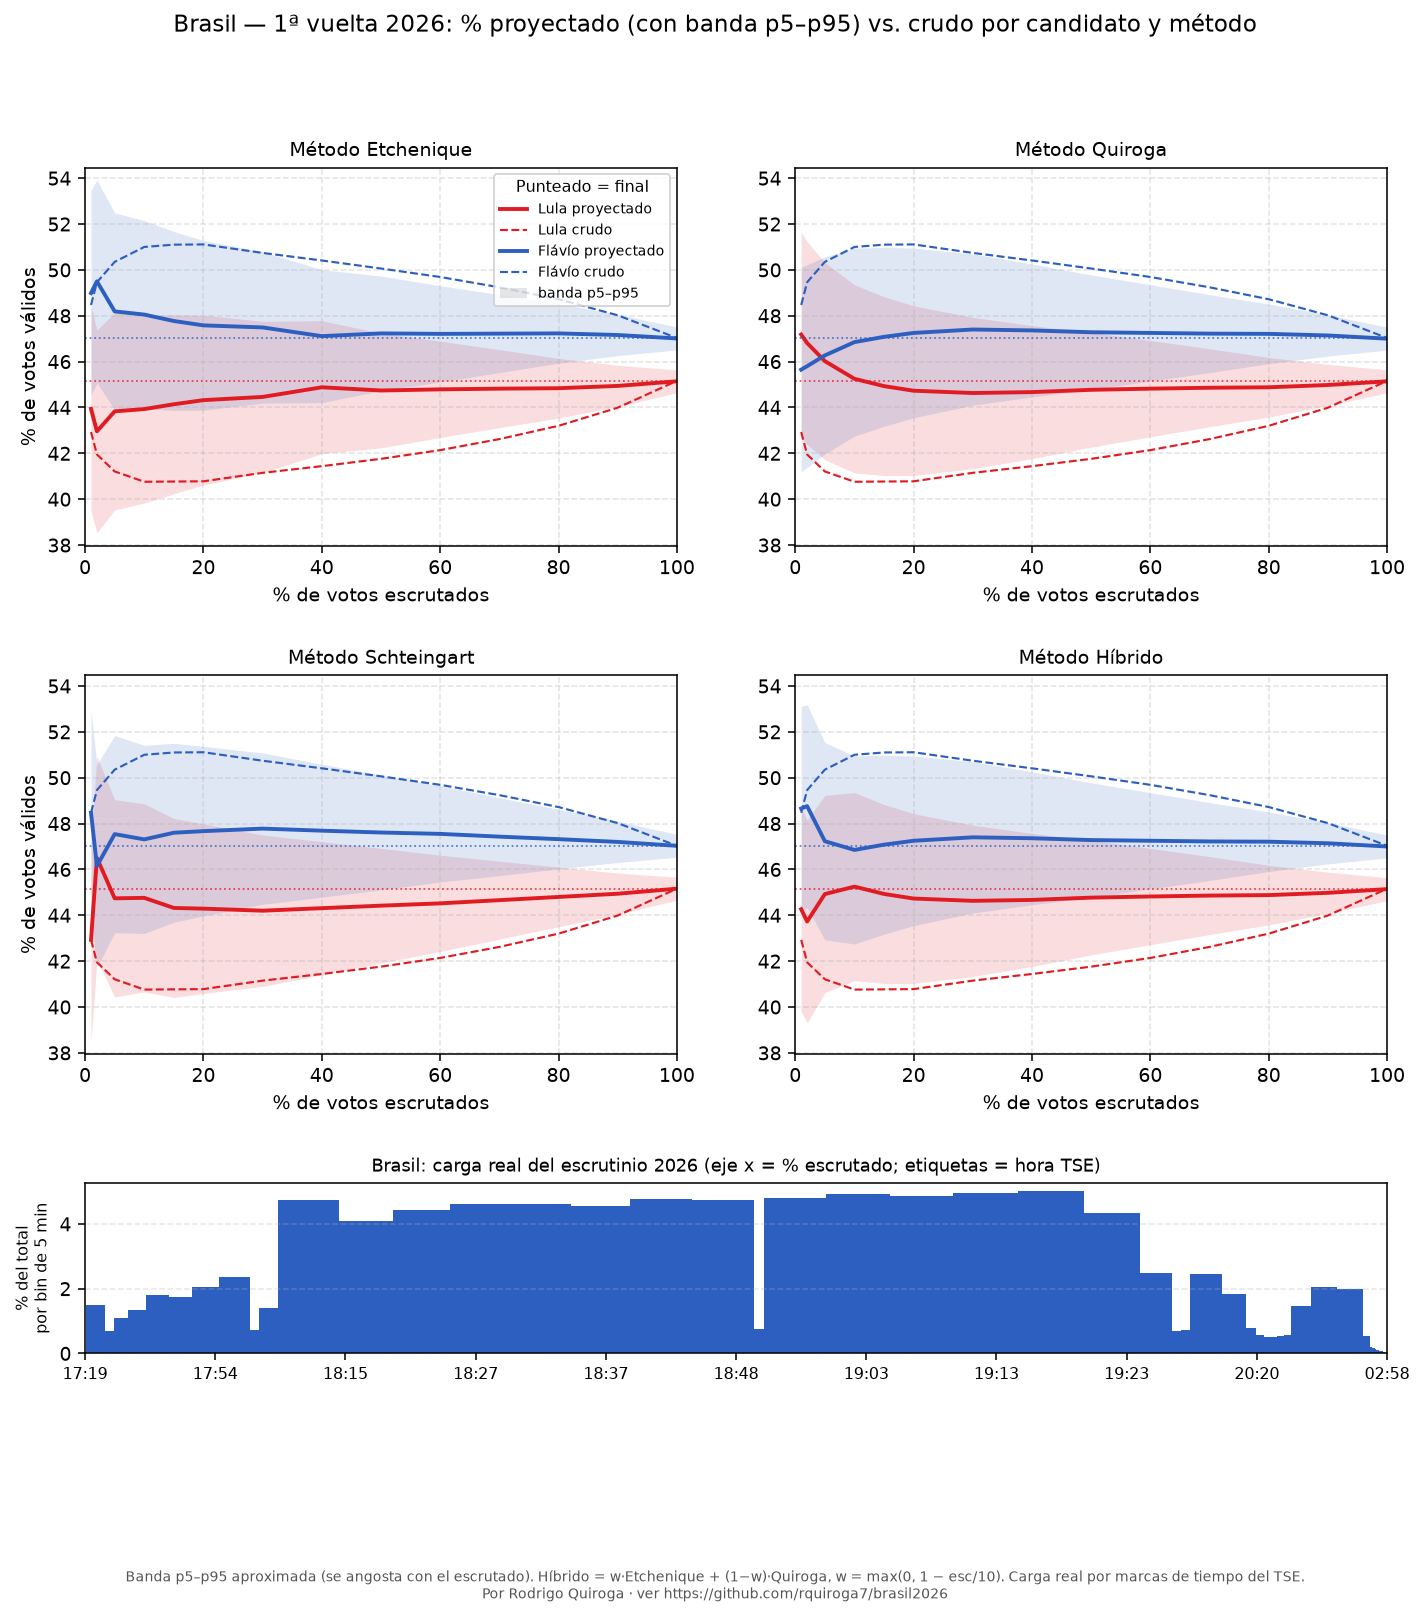
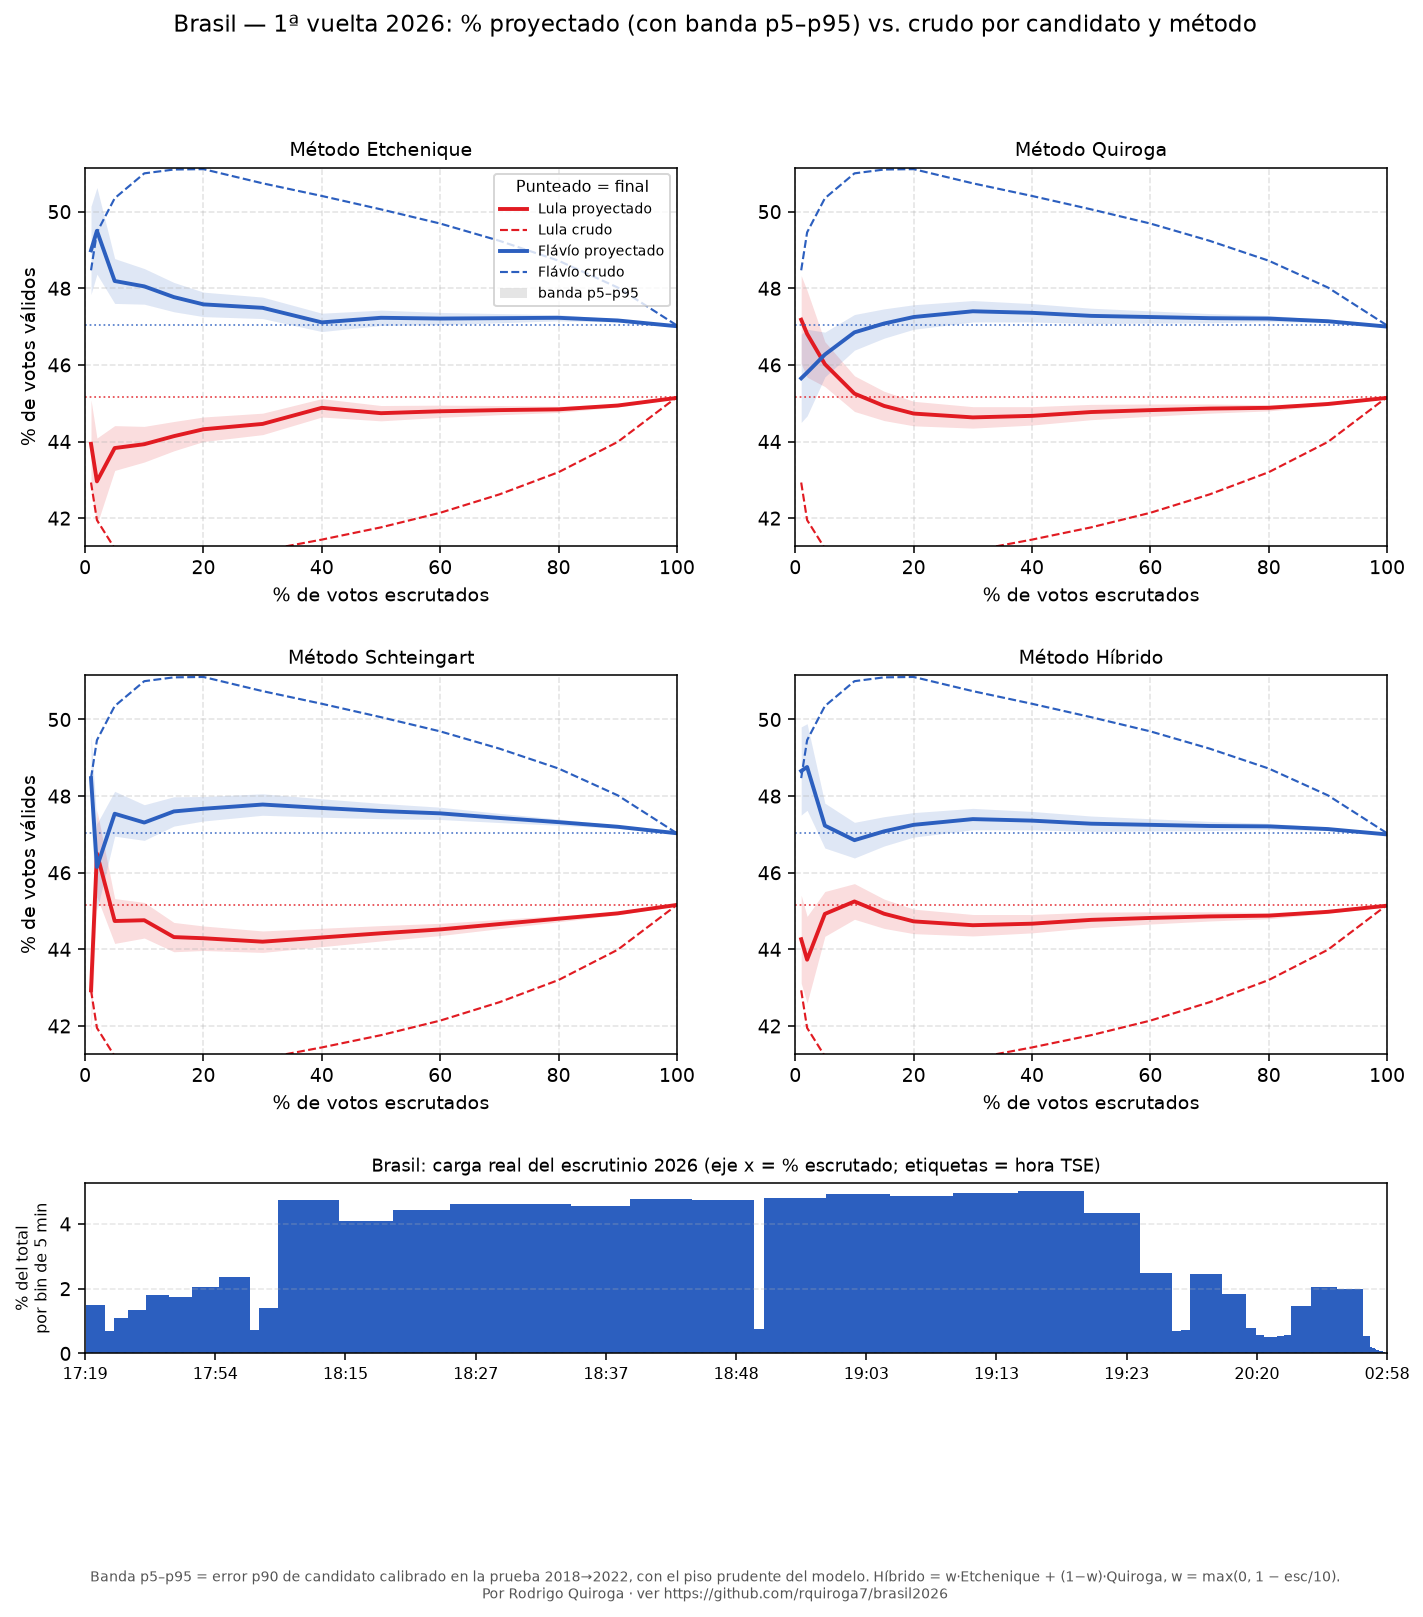
Banda p5-p95: usar calibracion real (cand p90 2018->2022) en vez de heuristica

diff --git a/graficar_backtest_candidatos_band.py b/graficar_backtest_candidatos_band.py
@@ -7,6 +7,7 @@ línea proyectada de cada candidato lleva una banda sombreada p5–p95.
 """
 
 import os
+import json
 
 import numpy as np
 import pandas as pd
@@ -21,6 +22,7 @@ import estilo_plot as ep
 import graficar_backtest_candidatos as g
 
 CSV = os.path.join(rd.REPO, "plot", "backtest_timestamped.csv")
+CAL = os.path.join(rd.REPO, "data", "proyeccion-calibracion.json")
 OUT = os.path.join(rd.REPO, "plot", "backtest_timestamped_candidatos_band.png")
 FINAL = {"lula": 45.16, "flavio": 47.03}
 METODOS = [("v1", "Etchenique"), ("v2", "Quiroga"), ("scht", "Schteingart"), ("hyb", "Híbrido")]
@@ -32,8 +34,13 @@ def main():
     w = np.clip(1.0 - bt["escrutado_pct"] / 10.0, 0.0, 1.0)
     bt["hyb_lula"] = w * bt["v1_lula"] + (1 - w) * bt["v2_lula"]
     bt["hyb_flavio"] = w * bt["v1_flavio"] + (1 - w) * bt["v2_flavio"]
-    # media banda p5-p95 (puntos), se angosta con el escrutado
-    hw = 0.5 + 4.0 * (1.0 - bt["escrutado_pct"] / 100.0)
+    # banda p5-p95 = error p90 de candidato calibrado (2018→2022), con piso que
+    # se angosta con el escrutado y llega a 0 en el 100%.
+    cal = json.load(open(CAL, encoding="utf-8"))["1"]
+    cx = np.array([c["contado"] for c in cal])
+    cc = np.array([c["cand"] for c in cal])
+    hw = np.maximum(np.interp(bt["escrutado_pct"] / 100.0, cx, cc),
+                    0.4 * (1.0 - bt["escrutado_pct"] / 100.0))
 
     vals = []
     for m_, _ in METODOS:
@@ -96,8 +103,9 @@ def main():
     fig.suptitle("Brasil — 1ª vuelta 2026: % proyectado (con banda p5–p95) vs. crudo por candidato y método",
                  fontsize=12)
     fig.tight_layout(rect=[0, 0.03, 1, 0.96])
-    ep.mpl(fig, "Banda p5–p95 aproximada (se angosta con el escrutado). Híbrido = w·Etchenique + "
-                "(1−w)·Quiroga, w = max(0, 1 − esc/10). Carga real por marcas de tiempo del TSE.")
+    ep.mpl(fig, "Banda p5–p95 = error p90 de candidato calibrado en la prueba 2018→2022, "
+                "con el piso prudente del modelo. Híbrido = w·Etchenique + (1−w)·Quiroga, "
+                "w = max(0, 1 − esc/10).")
     fig.savefig(OUT, dpi=140, bbox_inches="tight")
     plt.close(fig)
     print(f"[OK] {OUT}")
